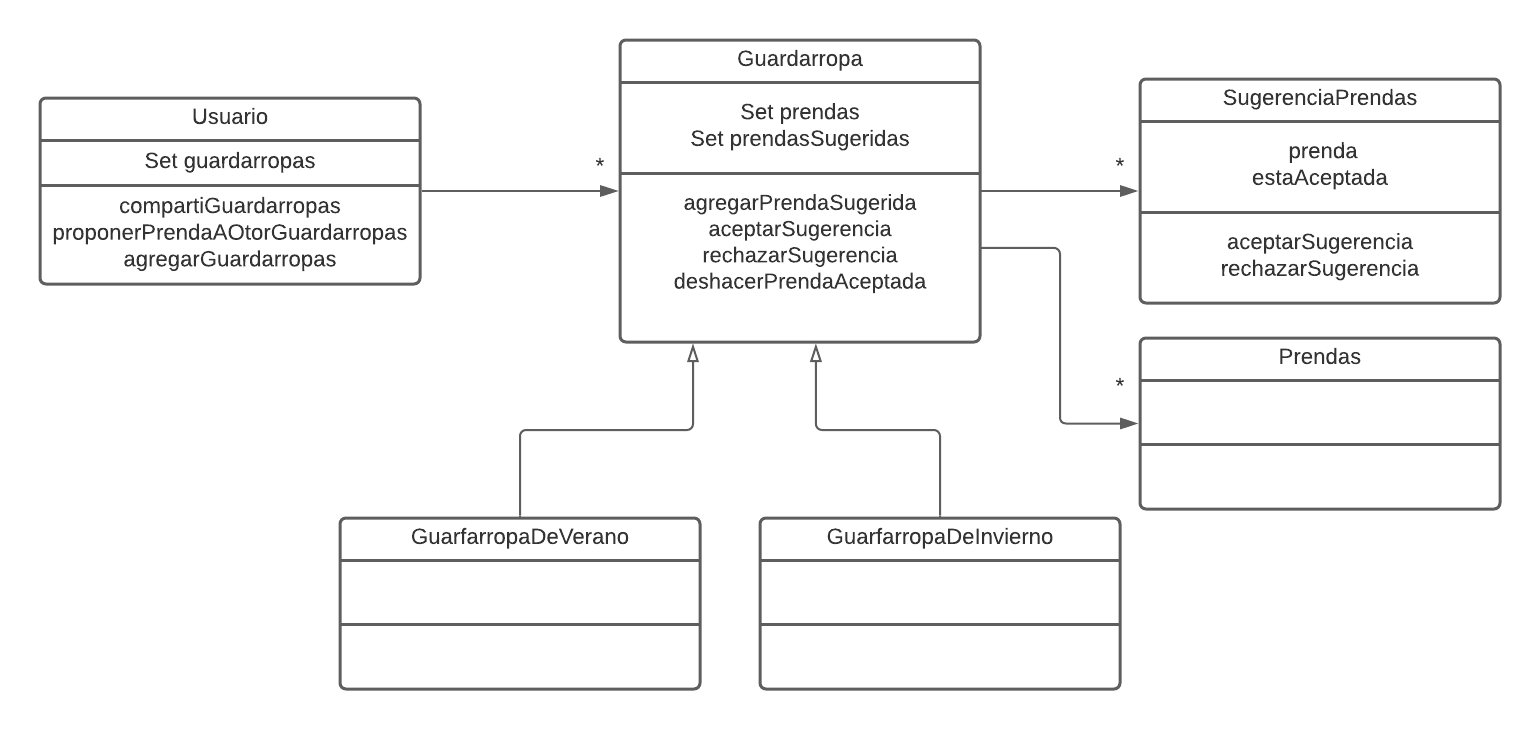
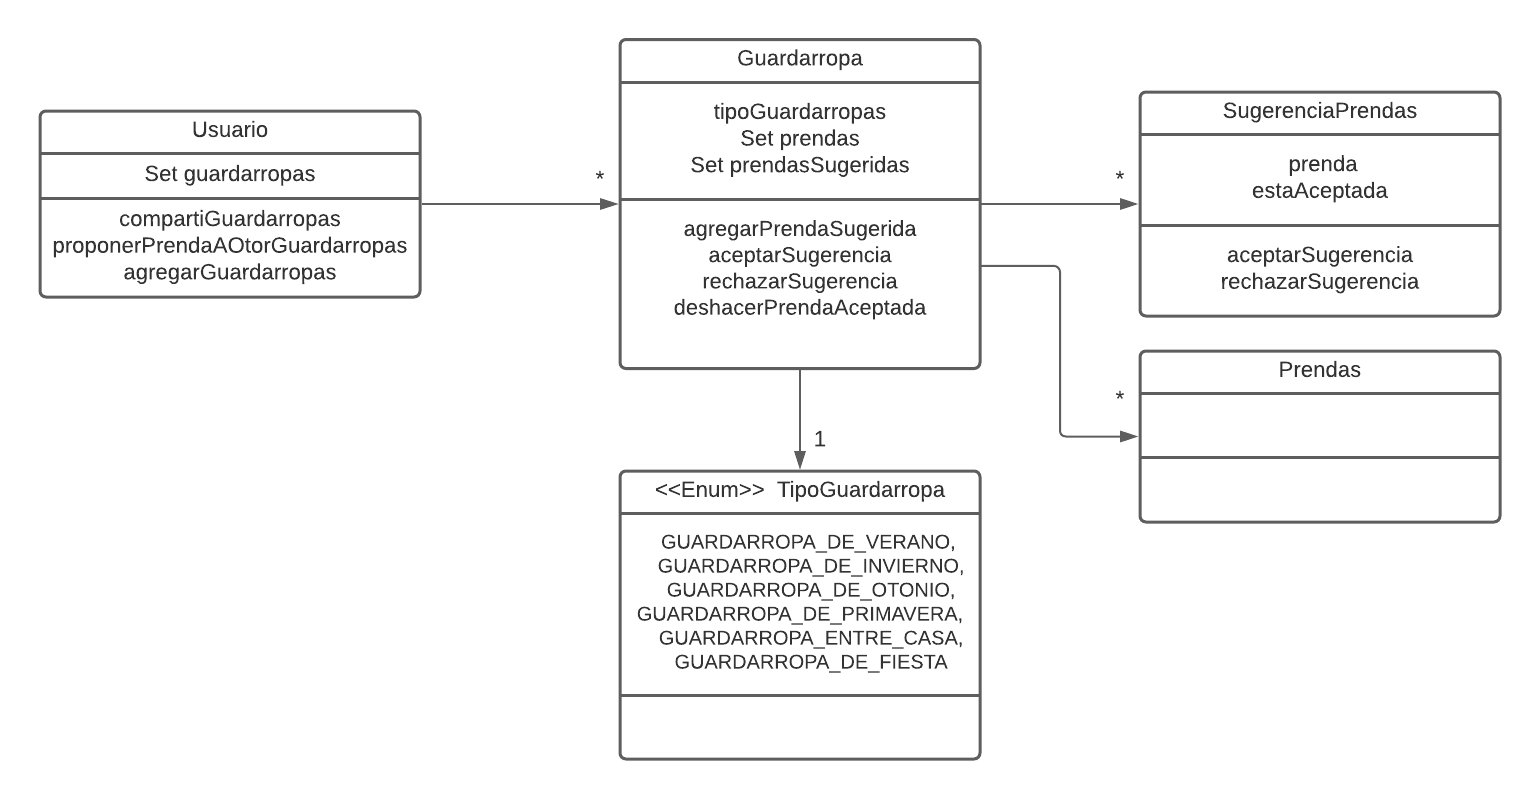
ejorando cosas

diff --git a/src/main/java/ar/edu/utn/frba/dds/QMP/Guardarropa.java b/src/main/java/ar/edu/utn/frba/dds/QMP/Guardarropa.java
@@ -1,10 +1,17 @@
 package ar.edu.utn.frba.dds.QMP;
 
 import java.util.*;
+import static java.util.Objects.requireNonNull;
 
 public class Guardarropa {
+    public TipoDeGuardarropas tipoGuardarropas;
     public Set prendas = new HashSet<Prenda>();
     public Set prendasSugeridas = new HashSet<SugerenciaPrenda>();
+
+    Guardarropa(TipoDeGuardarropas tipoGuardarropas){
+        this.tipoGuardarropas = requireNonNull(tipoGuardarropas,"Por favor agregar un tipo de Guardarropa");
+    }
+
 
     public void agregarPrendaSugerida(Prenda prenda){
         prendasSugeridas.add(new SugerenciaPrenda(prenda));

diff --git a/src/main/java/ar/edu/utn/frba/dds/QMP/Usuario.java b/src/main/java/ar/edu/utn/frba/dds/QMP/Usuario.java
@@ -16,7 +16,7 @@ public class Usuario {
         if(usuario.guardarropas.contains(guardarropa)){
             guardarropa.agregarPrendaSugerida(prenda);
         } else {
-            throw new Exception("El no tiene ese guardarropas guardado");
+            throw new Exception("El usuario no tiene ese guardarropas guardado");
         }
     }
 

diff --git a/src/main/java/ar/edu/utn/frba/dds/QMP/TipoDeGuardarropas.java b/src/main/java/ar/edu/utn/frba/dds/QMP/TipoDeGuardarropas.java
@@ -1,0 +1,10 @@
+package ar.edu.utn.frba.dds.QMP;
+
+public enum TipoDeGuardarropas {
+    GUARDARROPA_DE_VERANO,
+    GUARDARROPA_DE_INVIERNO,
+    GUARDARROPA_DE_OTONIO,
+    GUARDARROPA_DE_PRIMAVERA,
+    GUARDARROPA_ENTRE_CASA,
+    GUARDARROPA_DE_FIESTA
+}

diff --git a/src/main/java/ar/edu/utn/frba/dds/QMP/SugerenciaPrenda.java b/src/main/java/ar/edu/utn/frba/dds/QMP/SugerenciaPrenda.java
@@ -14,7 +14,7 @@ public class SugerenciaPrenda {
         this.estaAceptada = true;
     }
 
-    public void (rechazarSugerencia){
+    public void rechazarSugerencia(){
         this.estaAceptada = false;
     }
 }
